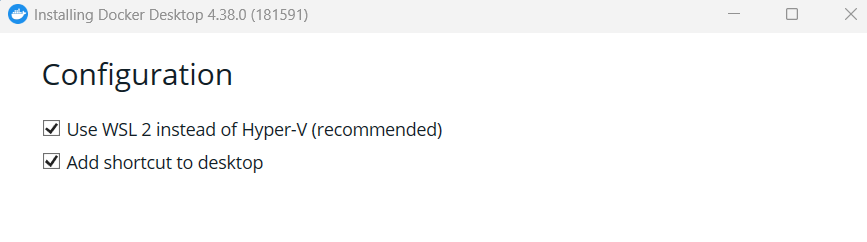
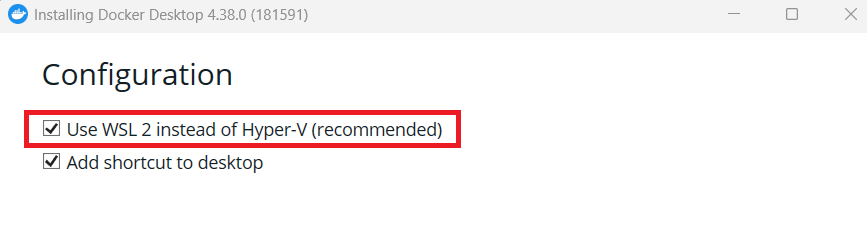
調整版面與圖片

Changed region(s): [[0.0, 0.4339, 0.5294, 0.6364]]

diff --git a/notes/Docker Learning Note/README.md b/notes/Docker Learning Note/README.md
@@ -3,18 +3,15 @@
 ## Docker Desktop on Windows
 
 - Docker 是需要一個 Linux 內核來運行的，在 Windows 上使用 Docker，一般是通過以下方式之一來提供 Linux 內核：
+  - WSL2 (Windows Subsystem for Linux 2)，這是目前推薦的方式，效能較好
+  - Hyper-V 虛擬化，在早期 Docker for Windows 版本中使用
 
-1. WSL2 (Windows Subsystem for Linux 2)，這是目前推薦的方式，效能較好
-2. Hyper-V 虛擬化，在早期 Docker for Windows 版本中使用
-
-- 安裝 Docker 時會出現選取選項：
-
+- 安裝 Docker 時會出現選取選項 (目前已預設勾選 WSL2)：
 ![](01.png)
 
 - 這兩個方式都需要在 BIOS 中開啟 CPU 虛擬化功能 (Intel VT)，否則啟動時會出現錯誤：
-
 ![](02.png)
 
 - WSL2 需要開啟 **Windows 功能** 中的 **Virtual Machine Platform** 與 **Windows Subsystem for Linux**：
-
 ![](03.png)
+
